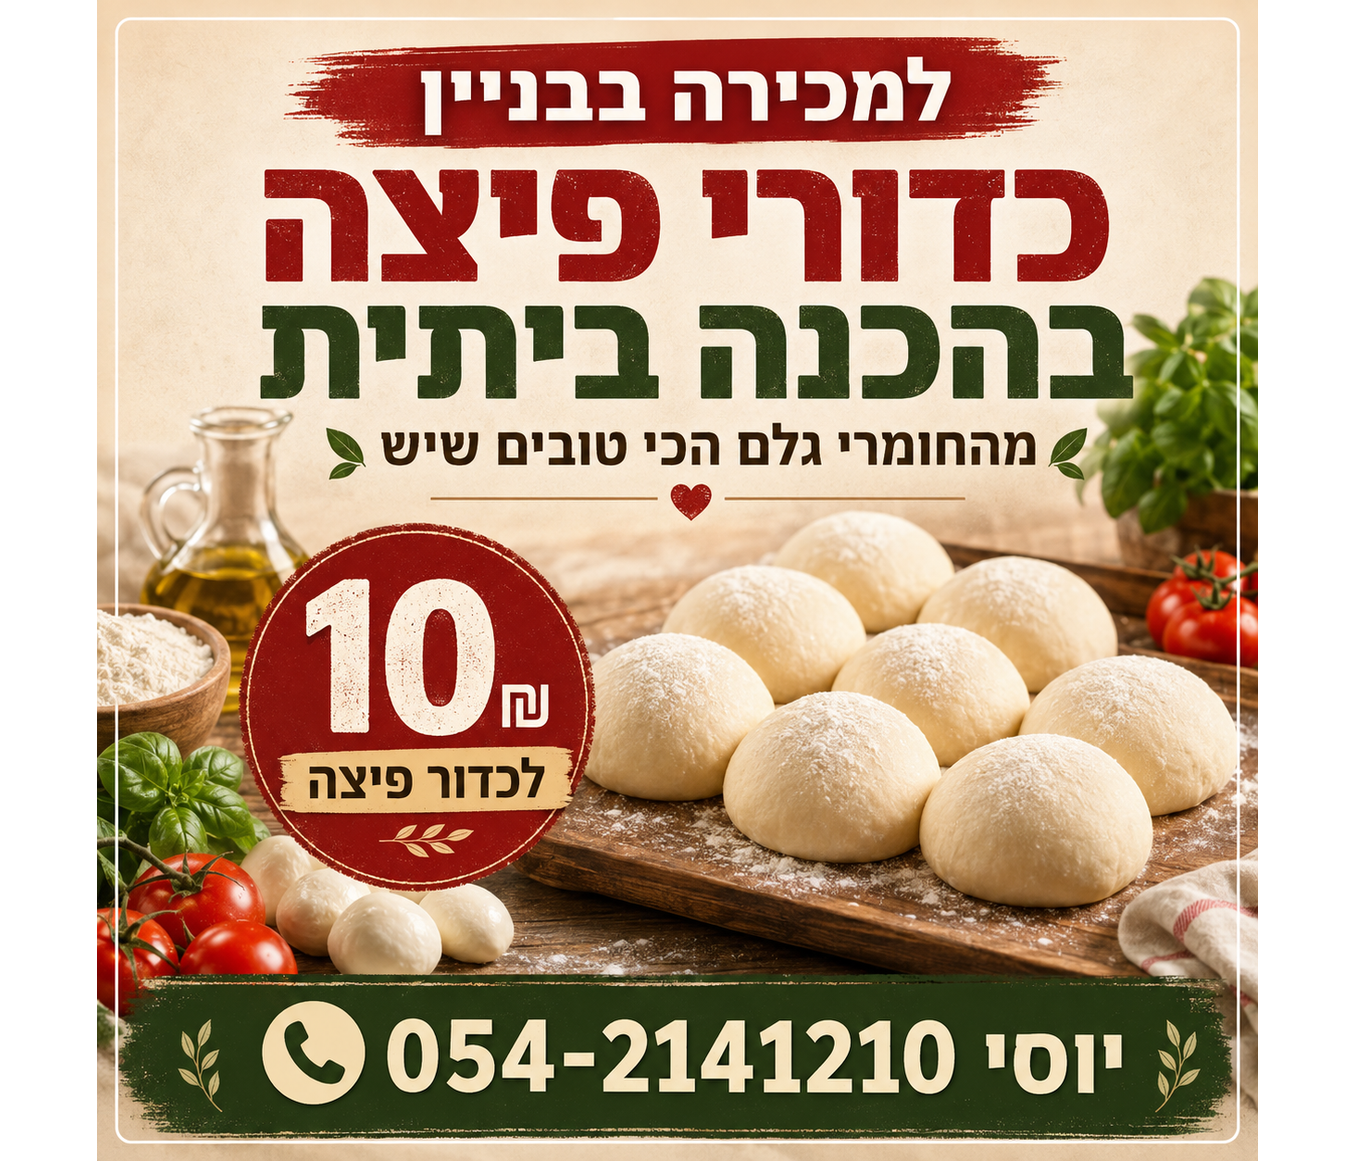
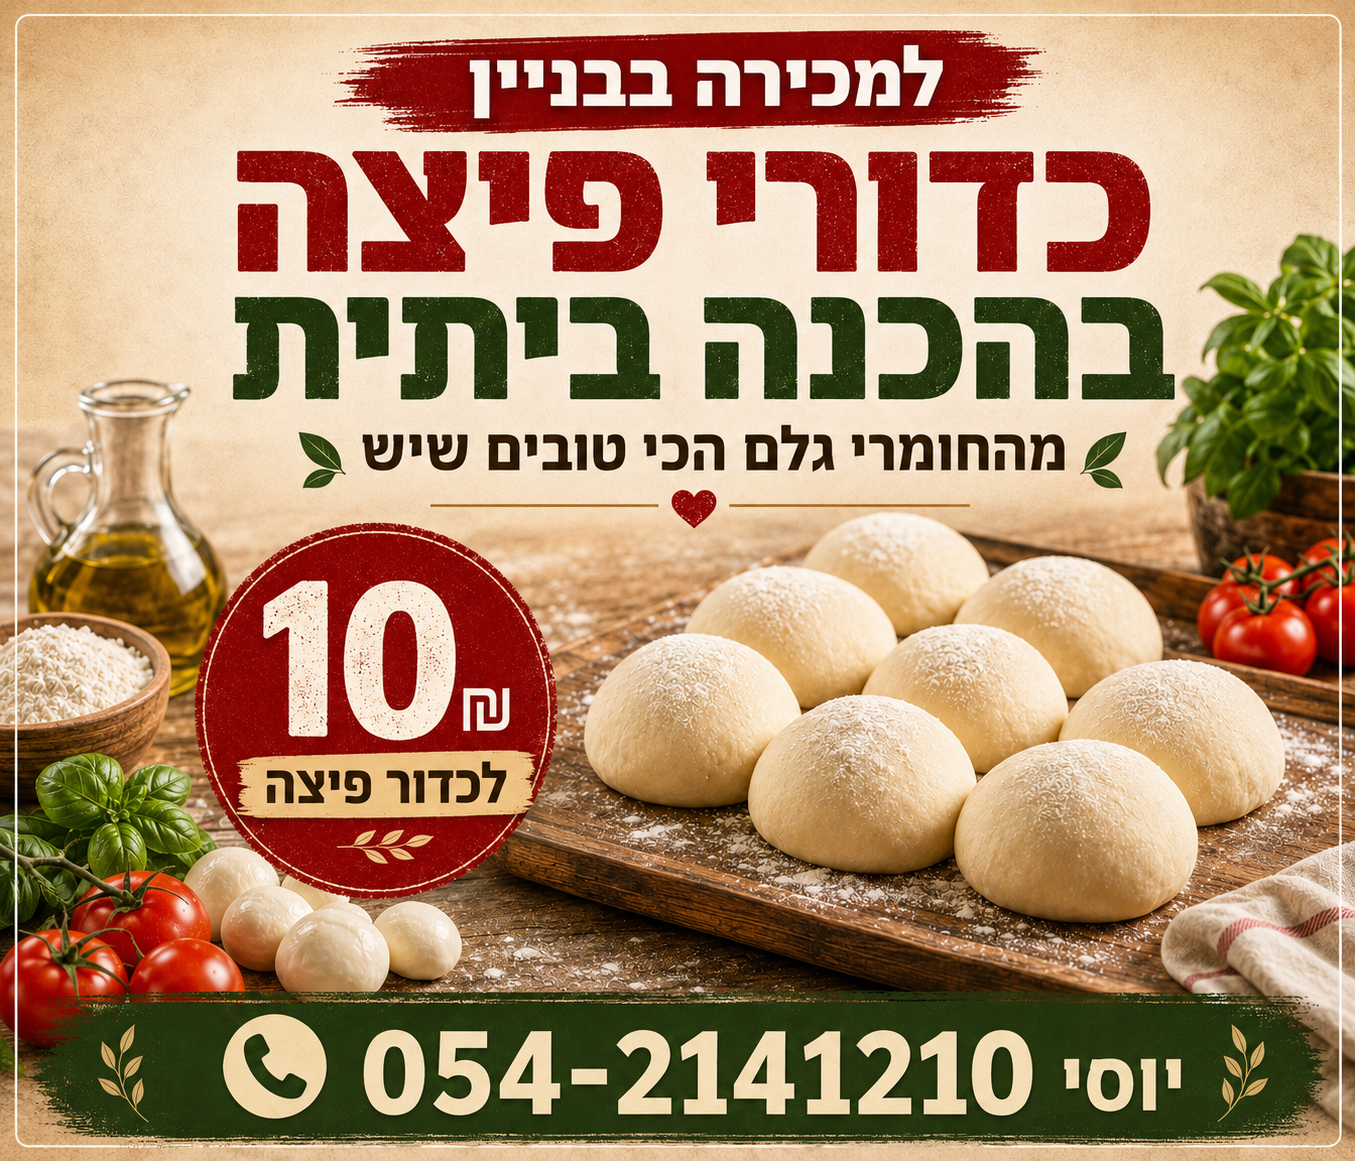
Add files via upload

diff --git a/index.html b/index.html
@@ -40,7 +40,7 @@ html,body{margin:0;width:100%;height:100%;overflow:hidden;background:#111;font-f
 <body>
 <div class="app">
   <section class="visual">
-    <img id="mainImage" src="pizza-balls.png" alt="תמונת לובי">
+    <img id="mainImage" src="gurman.png" alt="תמונת לובי">
   </section>
 
   <aside class="panel">
@@ -83,16 +83,16 @@ html,body{margin:0;width:100%;height:100%;overflow:hidden;background:#111;font-f
 const $=id=>document.getElementById(id);
 
 /* רוטציה קבועה ושווה בין 4 תמונות — כל 15 דקות:
-   00-14 = pizza-balls.png
-   15-29 = gurman.png
+   00-14 = gurman.png
+   15-29 = pizza-balls.png
    30-44 = mishael-motors.png
    45-59 = cleanliness.jpg
 */
 function updateLobbyImage(){
   const minutes = new Date().getMinutes();
-  let wanted = 'pizza-balls.png';
+  let wanted = 'gurman.png';
 
-  if(minutes >= 15 && minutes < 30) wanted = 'gurman.png';
+  if(minutes >= 15 && minutes < 30) wanted = 'pizza-balls.png';
   else if(minutes >= 30 && minutes < 45) wanted = 'mishael-motors.png';
   else if(minutes >= 45) wanted = 'cleanliness.jpg';
 
